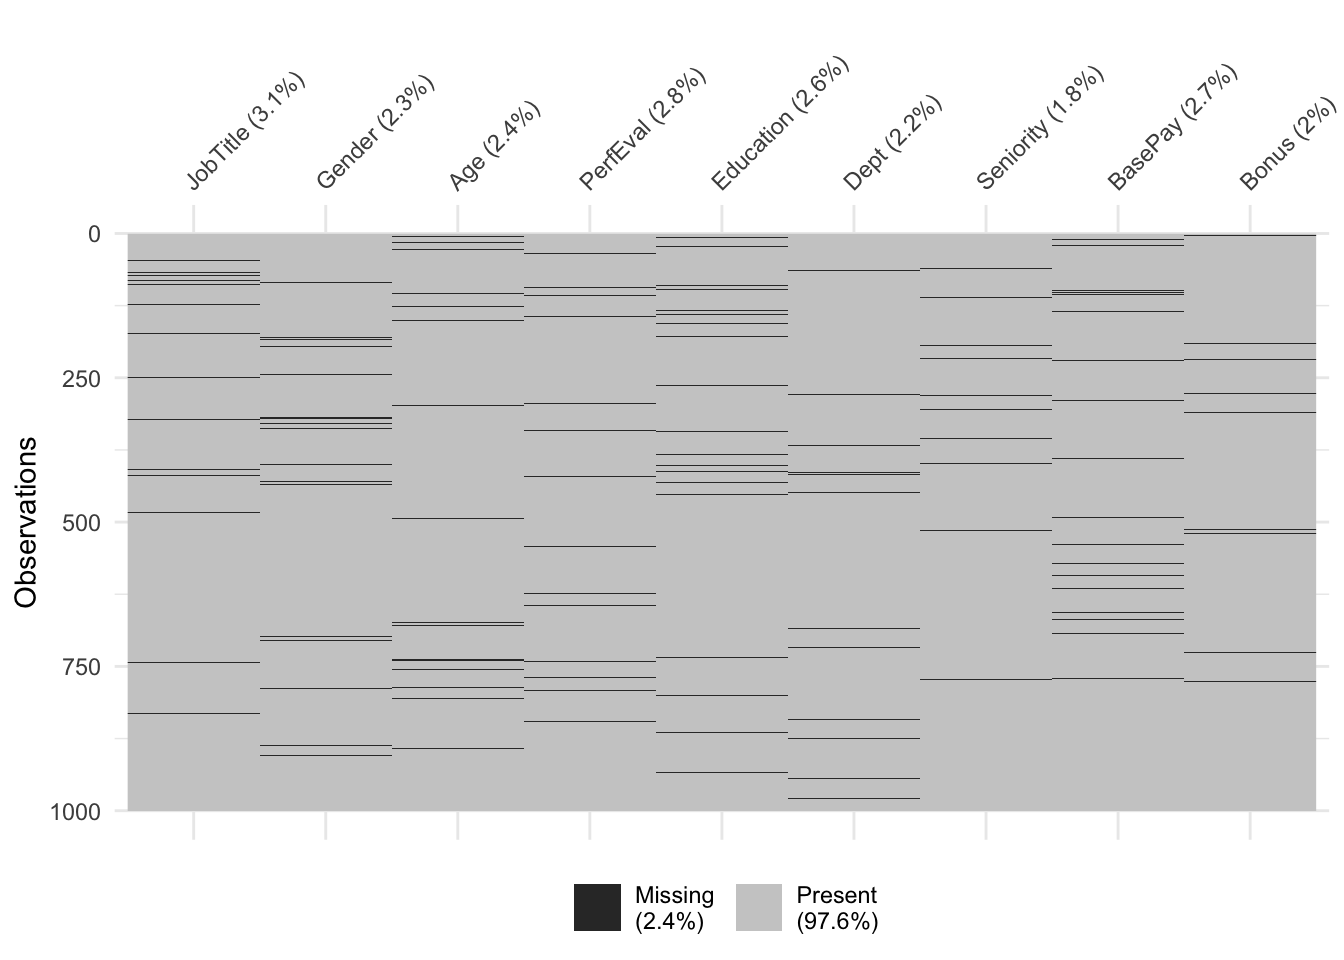
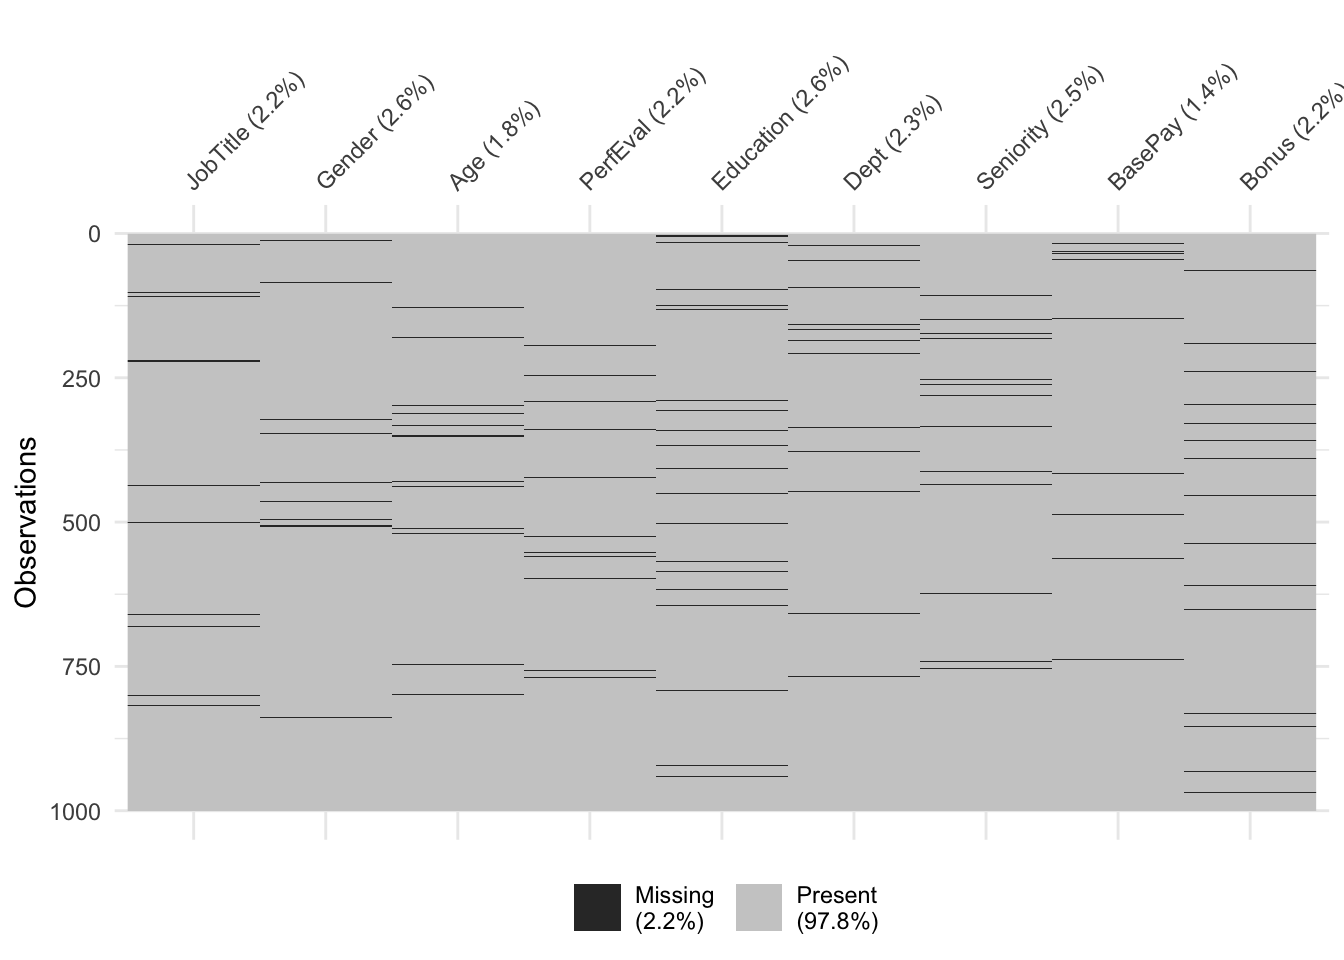
More changes?

diff --git a/docs/methods.html b/docs/methods.html
@@ -154,12 +154,8 @@
 <p>Due to the challenge of missing data having many assumptions, decisions, and methods used for analysis, it is extremely important to thoroughly report each. Reporting the strategy used for missing data is critical for other researchers to reproduce and validate findings. Report findings such as count or proportion of missing values to variable of interest, methodology used for incomplete data analysis, assumptions regarding the cause of missingness: MCAR, MAR, or MNAR, software used to handle missing data, changes made, etc.</p>
 <p>It is important to understand why and how to handle missing data. While multiple imputation is a preferred method to handle missing data in general, we still need to know when, why, and how. Detailed reporting is also needed to ensure reproducibility and validity.</p>
 <p>Methods and ideas discussed will help deal with missing data in scientific research but should be considered as an introduction to the topic. This report will be focused on single and multiple imputation methods.</p>
-<p>Generated NA’s for MCAR Type</p>
-<pre><code>## Warning: `gather_()` was deprecated in tidyr 1.2.0.
-## ℹ Please use `gather()` instead.
-## ℹ The deprecated feature was likely used in the visdat package.
-##   Please report the issue at &lt;]8;;https://github.com/ropensci/visdat/issueshttps://github.com/ropensci/visdat/issues]8;;&gt;.</code></pre>
-<p><img src="bookdownproj_files/figure-html/unnamed-chunk-3-1.png" width="672" /></p>
+<p>Generated NA’s for MCAR Type
+<img src="bookdownproj_files/figure-html/unnamed-chunk-3-1.png" width="672" /></p>
 <p>Generated NA’s for MAR Type
 <img src="bookdownproj_files/figure-html/unnamed-chunk-4-1.png" width="672" /></p>
 <p>Generated NA’s for MNAR Type
@@ -202,16 +198,18 @@ By default, linear regression is used to predict continuous missing values.
 Logistic regression is used for categorical missing values.
 While this method offers advantages over other methods, a primary disadvantage is that it does not have the same theoretical justification as other techniques.</p>
 <ul>
-<li>Visualization after performing KNN to the original dataset:
-<img src="bookdownproj_files/figure-html/unnamed-chunk-6-1.png" width="672" /><img src="bookdownproj_files/figure-html/unnamed-chunk-6-2.png" width="672" /></li>
+<li><p>Visualization after performing SI to the original dataset:
+<img src="bookdownproj_files/figure-html/unnamed-chunk-6-1.png" width="672" /></p></li>
+<li><p>Visualization after performing MICE to the original dataset:
+<img src="bookdownproj_files/figure-html/unnamed-chunk-7-1.png" width="672" /></p></li>
 </ul>
 </div>
 <div id="results" class="section level2 hasAnchor" number="3.6">
 <h2><span class="header-section-number">3.6</span> Results<a href="methods.html#results" class="anchor-section" aria-label="Anchor link to header"></a></h2>
 <div id="error" class="section level3 hasAnchor" number="3.6.1">
 <h3><span class="header-section-number">3.6.1</span> Error<a href="methods.html#error" class="anchor-section" aria-label="Anchor link to header"></a></h3>
-<div id="htmlwidget-7e6548eb1edaf96dbb76" style="width:100%;height:auto;" class="datatables html-widget"></div>
-<script type="application/json" data-for="htmlwidget-7e6548eb1edaf96dbb76">{"x":{"filter":"top","vertical":false,"filterHTML":"<tr>\n  <td><\/td>\n  <td data-type=\"number\" style=\"vertical-align: top;\">\n    <div class=\"form-group has-feedback\" style=\"margin-bottom: auto;\">\n      <input type=\"search\" placeholder=\"All\" class=\"form-control\" style=\"width: 100%;\"/>\n      <span class=\"glyphicon glyphicon-remove-circle form-control-feedback\"><\/span>\n    <\/div>\n    <div style=\"display: none;position: absolute;width: 200px;opacity: 1\">\n      <div data-min=\"9.09090909090909\" data-max=\"90\" data-scale=\"14\"><\/div>\n      <span style=\"float: left;\"><\/span>\n      <span style=\"float: right;\"><\/span>\n    <\/div>\n  <\/td>\n  <td data-type=\"number\" style=\"vertical-align: top;\">\n    <div class=\"form-group has-feedback\" style=\"margin-bottom: auto;\">\n      <input type=\"search\" placeholder=\"All\" class=\"form-control\" style=\"width: 100%;\"/>\n      <span class=\"glyphicon glyphicon-remove-circle form-control-feedback\"><\/span>\n    <\/div>\n    <div style=\"display: none;position: absolute;width: 200px;opacity: 1\">\n      <div data-min=\"11.0257790209739\" data-max=\"100\" data-scale=\"14\"><\/div>\n      <span style=\"float: left;\"><\/span>\n      <span style=\"float: right;\"><\/span>\n    <\/div>\n  <\/td>\n  <td data-type=\"number\" style=\"vertical-align: top;\">\n    <div class=\"form-group has-feedback\" style=\"margin-bottom: auto;\">\n      <input type=\"search\" placeholder=\"All\" class=\"form-control\" style=\"width: 100%;\"/>\n      <span class=\"glyphicon glyphicon-remove-circle form-control-feedback\"><\/span>\n    <\/div>\n    <div style=\"display: none;position: absolute;width: 200px;opacity: 1\">\n      <div data-min=\"7.37303196776803\" data-max=\"91.304347826087\" data-scale=\"15\"><\/div>\n      <span style=\"float: left;\"><\/span>\n      <span style=\"float: right;\"><\/span>\n    <\/div>\n  <\/td>\n  <td data-type=\"number\" style=\"vertical-align: top;\">\n    <div class=\"form-group has-feedback\" style=\"margin-bottom: auto;\">\n      <input type=\"search\" placeholder=\"All\" class=\"form-control\" style=\"width: 100%;\"/>\n      <span class=\"glyphicon glyphicon-remove-circle form-control-feedback\"><\/span>\n    <\/div>\n    <div style=\"display: none;position: absolute;width: 200px;opacity: 1\">\n      <div data-min=\"7.15272015970766\" data-max=\"81.25\" data-scale=\"15\"><\/div>\n      <span style=\"float: left;\"><\/span>\n      <span style=\"float: right;\"><\/span>\n    <\/div>\n  <\/td>\n<\/tr>","caption":"<caption>Errors by type<\/caption>","data":[["JobTitle_MCAR","Gender_MCAR","Age_MCAR","PerfEval_MCAR","Education_MCAR","Dept_MCAR","Seniority_MCAR","BasePay_MCAR","Bonus_MCAR","JobTitle_MAR","Gender_MAR","Age_MAR","PerfEval_MAR","Education_MAR","Dept_MAR","Seniority_MAR","BasePay_MAR","Bonus_MAR","JobTitle_MNAR","Gender_MNAR","Age_MNAR","PerfEval_MNAR","Education_MNAR","Dept_MNAR","Seniority_MNAR","BasePay_MNAR","Bonus_MNAR"],[86.9565217391304,41.6666666666667,30.388497406816,76,75,81.25,85,20.2258241119631,39.2409935503089,83.8709677419355,30.4347826086957,33.3403776356229,67.8571428571429,69.2307692307692,86.3636363636364,88.8888888888889,13.7497500312307,26.0146578176414,90,9.09090909090909,28.6454100384677,73.6842105263158,80,73.0769230769231,87.5,23.5954315733153,30.5003674765361],[100,20.8333333333333,23.592798676166,48,75,81.25,60,16.156854772014,14.8839580689621,90.3225806451613,47.8260869565217,27.0320570520883,64.2857142857143,84.6153846153846,86.3636363636364,61.1111111111111,11.0257790209739,12.7157793314972,90.3225806451613,47.8260869565217,21.2820713643249,64.2857142857143,84.6153846153846,86.3636363636364,61.1111111111111,20.4177128915293,11.9848012515578],[91.304347826087,20.8333333333333,15.7655667865881,36,75,50,80,10.8800576150213,9.94988323435348,80.6451612903226,39.1304347826087,17.6140018926673,21.4285714285714,76.9230769230769,77.2727272727273,61.1111111111111,7.37303196776803,10.3735898108254,80.6451612903226,39.1304347826087,14.0151255206066,21.4285714285714,76.9230769230769,77.2727272727273,61.1111111111111,12.468879126109,8.55450282263129],[69.5652173913043,29.1666666666667,20.1612326315953,32,81.25,75,40,14.9432802816491,8.92663266198327,70.9677419354839,30.4347826086957,15.3247978819651,17.8571428571429,73.0769230769231,77.2727272727273,77.7777777777778,10.0538611254618,9.9074833536083,70.9677419354839,30.4347826086957,12.8570640395704,17.8571428571429,73.0769230769231,77.2727272727273,77.7777777777778,12.5995527736382,7.15272015970766]],"container":"<table class=\"display\">\n  <thead>\n    <tr>\n      <th> <\/th>\n      <th>SI_Error<\/th>\n      <th>kNN_Error<\/th>\n      <th>RF_Error<\/th>\n      <th>MICE_Error<\/th>\n    <\/tr>\n  <\/thead>\n<\/table>","options":{"columnDefs":[{"className":"dt-right","targets":[1,2,3,4]},{"orderable":false,"targets":0}],"order":[],"autoWidth":false,"orderClasses":false,"orderCellsTop":true}},"evals":[],"jsHooks":[]}</script>
+<div id="htmlwidget-01a2d124a32a82ef671e" style="width:100%;height:auto;" class="datatables html-widget"></div>
+<script type="application/json" data-for="htmlwidget-01a2d124a32a82ef671e">{"x":{"filter":"top","vertical":false,"filterHTML":"<tr>\n  <td><\/td>\n  <td data-type=\"number\" style=\"vertical-align: top;\">\n    <div class=\"form-group has-feedback\" style=\"margin-bottom: auto;\">\n      <input type=\"search\" placeholder=\"All\" class=\"form-control\" style=\"width: 100%;\"/>\n      <span class=\"glyphicon glyphicon-remove-circle form-control-feedback\"><\/span>\n    <\/div>\n    <div style=\"display: none;position: absolute;width: 200px;opacity: 1\">\n      <div data-min=\"5.55555555555556\" data-max=\"95.2380952380952\" data-scale=\"15\"><\/div>\n      <span style=\"float: left;\"><\/span>\n      <span style=\"float: right;\"><\/span>\n    <\/div>\n  <\/td>\n  <td data-type=\"number\" style=\"vertical-align: top;\">\n    <div class=\"form-group has-feedback\" style=\"margin-bottom: auto;\">\n      <input type=\"search\" placeholder=\"All\" class=\"form-control\" style=\"width: 100%;\"/>\n      <span class=\"glyphicon glyphicon-remove-circle form-control-feedback\"><\/span>\n    <\/div>\n    <div style=\"display: none;position: absolute;width: 200px;opacity: 1\">\n      <div data-min=\"8.47810542874171\" data-max=\"84.6153846153846\" data-scale=\"14\"><\/div>\n      <span style=\"float: left;\"><\/span>\n      <span style=\"float: right;\"><\/span>\n    <\/div>\n  <\/td>\n  <td data-type=\"number\" style=\"vertical-align: top;\">\n    <div class=\"form-group has-feedback\" style=\"margin-bottom: auto;\">\n      <input type=\"search\" placeholder=\"All\" class=\"form-control\" style=\"width: 100%;\"/>\n      <span class=\"glyphicon glyphicon-remove-circle form-control-feedback\"><\/span>\n    <\/div>\n    <div style=\"display: none;position: absolute;width: 200px;opacity: 1\">\n      <div data-min=\"5.91327540781908\" data-max=\"93.3333333333333\" data-scale=\"15\"><\/div>\n      <span style=\"float: left;\"><\/span>\n      <span style=\"float: right;\"><\/span>\n    <\/div>\n  <\/td>\n  <td data-type=\"number\" style=\"vertical-align: top;\">\n    <div class=\"form-group has-feedback\" style=\"margin-bottom: auto;\">\n      <input type=\"search\" placeholder=\"All\" class=\"form-control\" style=\"width: 100%;\"/>\n      <span class=\"glyphicon glyphicon-remove-circle form-control-feedback\"><\/span>\n    <\/div>\n    <div style=\"display: none;position: absolute;width: 200px;opacity: 1\">\n      <div data-min=\"7.05083088959791\" data-max=\"93.3333333333333\" data-scale=\"15\"><\/div>\n      <span style=\"float: left;\"><\/span>\n      <span style=\"float: right;\"><\/span>\n    <\/div>\n  <\/td>\n<\/tr>","caption":"<caption>Errors by type<\/caption>","data":[["JobTitle_MCAR","Gender_MCAR","Age_MCAR","PerfEval_MCAR","Education_MCAR","Dept_MCAR","Seniority_MCAR","BasePay_MCAR","Bonus_MCAR","JobTitle_MAR","Gender_MAR","Age_MAR","PerfEval_MAR","Education_MAR","Dept_MAR","Seniority_MAR","BasePay_MAR","Bonus_MAR","JobTitle_MNAR","Gender_MNAR","Age_MNAR","PerfEval_MNAR","Education_MNAR","Dept_MNAR","Seniority_MNAR","BasePay_MNAR","Bonus_MNAR"],[81.8181818181818,35,41.5026461177671,77.2727272727273,88.4615384615385,93.3333333333333,71.875,29.3395682464414,33.236844725206,90.9090909090909,26.9230769230769,33.9755546701955,77.2727272727273,76.9230769230769,65.2173913043478,88,22.1175533783063,26.7484389565283,88.8888888888889,5.55555555555556,30.5561270893864,76.4705882352941,92,76,95.2380952380952,24.1588977723639,20.0060977734912],[77.2727272727273,60,38.083686992469,63.6363636363636,76.9230769230769,73.3333333333333,62.5,18.6728408488904,18.6685757740248,77.2727272727273,30.7692307692308,27.5338507222438,59.0909090909091,84.6153846153846,73.9130434782609,84,15.4941889307785,12.1272167337949,77.2727272727273,30.7692307692308,23.7426169950788,59.0909090909091,84.6153846153846,73.9130434782609,84,20.7875805474824,8.47810542874171],[90.9090909090909,30,21.1644485103406,45.4545454545455,73.0769230769231,93.3333333333333,46.875,12.3423376041172,10.7056957602499,81.8181818181818,38.4615384615385,16.2878703007219,27.2727272727273,61.5384615384615,86.9565217391304,72,8.27959933071993,7.89844399997259,81.8181818181818,38.4615384615385,15.6634959828997,27.2727272727273,61.5384615384615,86.9565217391304,72,7.63232947196786,5.91327540781908],[59.0909090909091,30,17.5649704625231,36.3636363636364,84.6153846153846,93.3333333333333,53.125,9.52935840515373,14.6980350289725,77.2727272727273,50,16.7702325681202,36.3636363636364,61.5384615384615,82.6086956521739,56,7.05083088959791,7.35884445404495,77.2727272727273,50,16.1180067908564,36.3636363636364,61.5384615384615,82.6086956521739,56,12.7257163996331,7.44668348944951]],"container":"<table class=\"display\">\n  <thead>\n    <tr>\n      <th> <\/th>\n      <th>SI_Error<\/th>\n      <th>kNN_Error<\/th>\n      <th>RF_Error<\/th>\n      <th>MICE_Error<\/th>\n    <\/tr>\n  <\/thead>\n<\/table>","options":{"columnDefs":[{"className":"dt-right","targets":[1,2,3,4]},{"orderable":false,"targets":0}],"order":[],"autoWidth":false,"orderClasses":false,"orderCellsTop":true}},"evals":[],"jsHooks":[]}</script>
 </div>
 <div id="comparisons" class="section level3 hasAnchor" number="3.6.2">
 <h3><span class="header-section-number">3.6.2</span> Comparisons<a href="methods.html#comparisons" class="anchor-section" aria-label="Anchor link to header"></a></h3>
